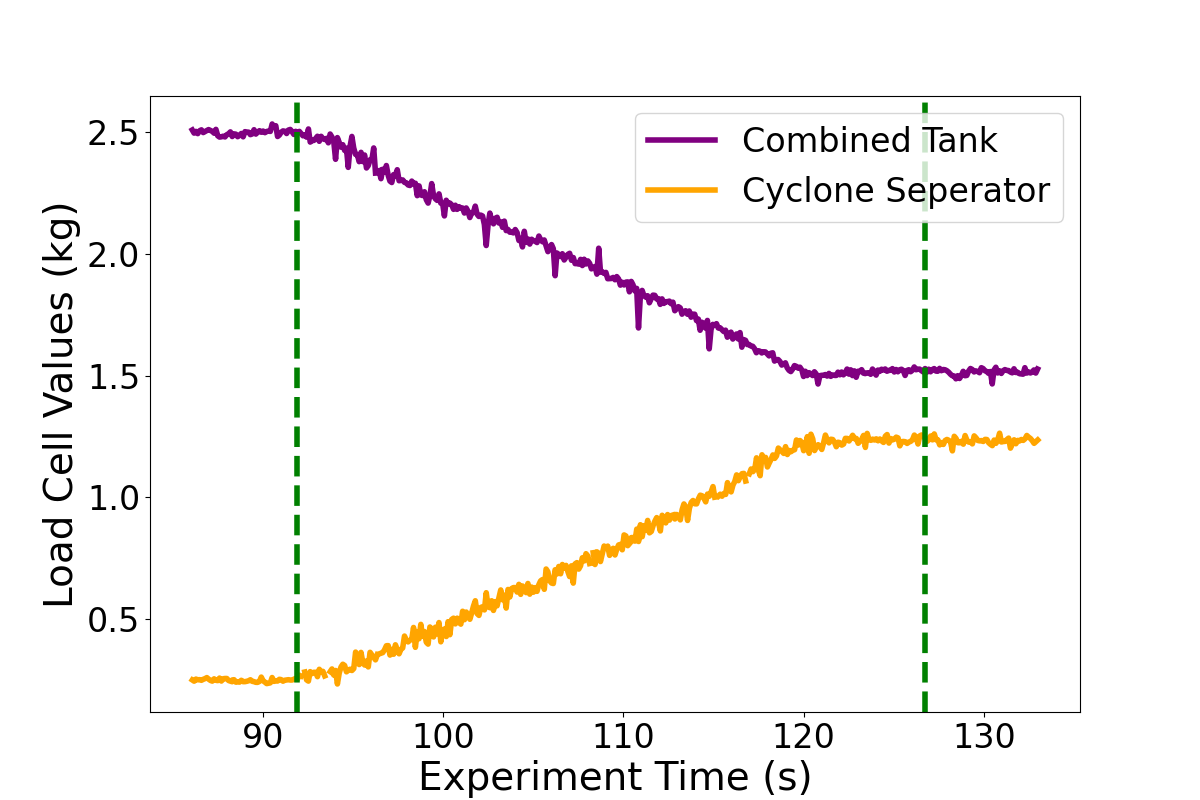
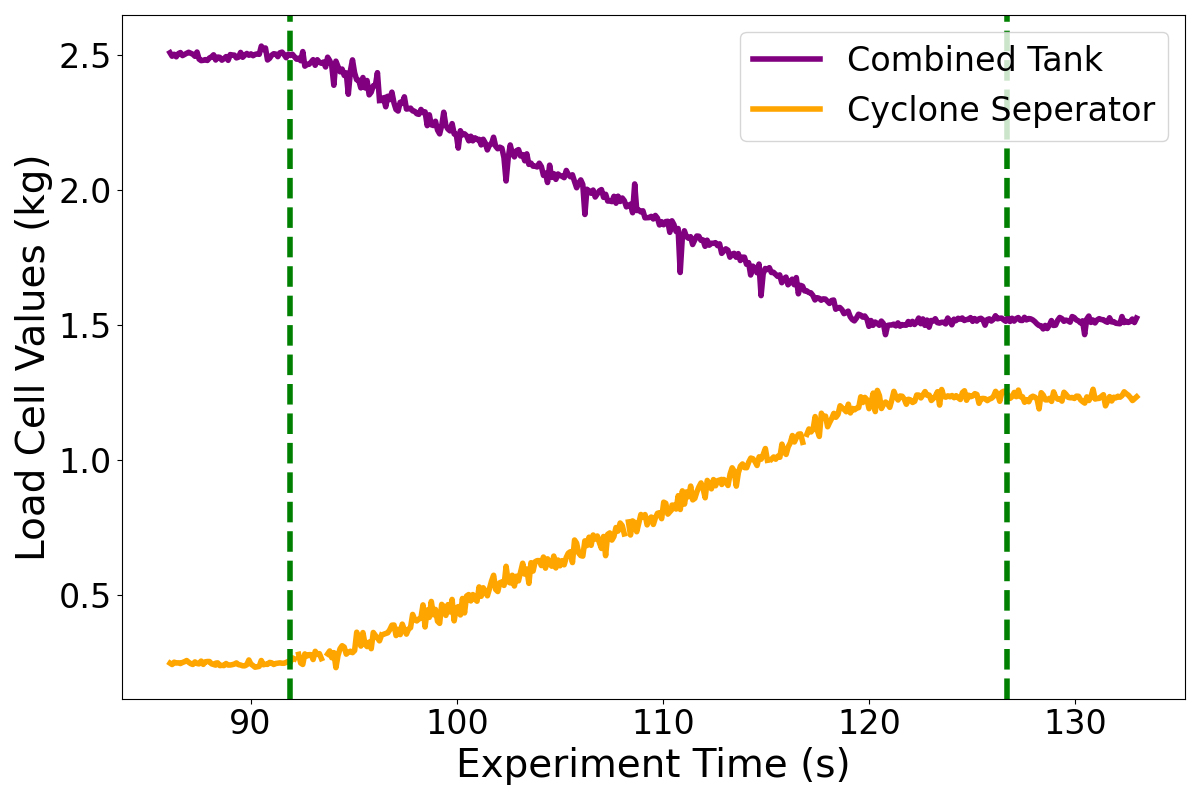
pics for 5th test

diff --git a/Research_Files/June/sand_results_51.py b/Research_Files/June/sand_results_51.py
@@ -53,12 +53,13 @@
 # plt.xlabel('Experiment Time (s)')
 # plt.ylabel('Load Cell Values (kg)')
 # plt.ylim(0.1, 2.1)
-# plt.legend()
+# plt.legend(loc='upper right')
+# plt.tight_layout()
 # # Show the plot
 # # plt.show()
 # plt.savefig('./latex/report_assets/51_raw_mass.png')
 # df_1['ch2plus7'] = df_1['ch2sens'] + df_1['ch7sens']
-# # Save cleaned DataFrames to new CSV files
+# Save cleaned DataFrames to new CSV files
 # df_1.to_csv(input_file_1.replace('.csv', '_clean.csv'), index=False)
 # df_2.to_csv(input_file_2.replace('.csv', '_clean.csv'), index=False)
 
@@ -101,10 +102,10 @@
 # plt.xlabel('Experiment Time (s)')
 # plt.ylabel('Load Cell Values (kg)')
 # plt.legend()
-
+# plt.tight_layout()
 # # # Show the plot
-# plt.savefig('./latex/report_assets/51_clean_mass.png')
-
+# # plt.savefig('./latex/report_assets/51_clean_mass.png')
+# plt.show()
 
 import matplotlib.pyplot as plt
 import pandas as pd
@@ -124,12 +125,12 @@ df_1['ch2plus7'] = -1*df_1['ch2plus7']
 df_1['m_flow'] = df_1['ch2plus7'].diff()
 df_2['m_flow'] = df_2['ch7sens'].diff()
 # Apply a rolling mean to smooth the curves
-window_size = 200  # Adjust as needed for smoothing
+window_size = 100  # Adjust as needed for smoothing
 df_1['smooth_combined'] = df_1['ch2plus7'].rolling(window=window_size, center=True, min_periods=1).mean()
 df_2['smooth_ch7sens'] = df_2['ch7sens'].rolling(window=window_size, center=True, min_periods=1).mean()
 
-df_1['m_flow_smooth'] = df_1['smooth_combined'].diff()
-df_2['m_flow_smooth'] = df_2['smooth_ch7sens'].diff()
+df_1['m_flow_smooth'] = df_1['smooth_combined'].diff()*10
+df_2['m_flow_smooth'] = df_2['smooth_ch7sens'].diff()*10
 
 plt.rc('legend', fontsize=24)   # Increase legend font size
 plt.rc('lines', linewidth=4)    # Further increase line width
@@ -138,15 +139,17 @@ plt.figure(figsize=(12, 8))    # Increase figure size
 plt.rc('xtick', labelsize=24)   # Increase x-axis tick font size
 plt.rc('ytick', labelsize=24)   # Increase y-axis tick font size
 
-plt.plot(df_1['BackendTime'], df_1['m_flow_smooth'], label='Combined Tank', color='purple')
-plt.plot(df_2['BackendTime'], df_2['m_flow_smooth'], label='Cyclone Seperator', color='orange')
+plt.plot(df_1['BackendTime'], df_1['m_flow_smooth']*1000, label='Combined Tank', color='purple')
+plt.plot(df_2['BackendTime'], df_2['m_flow_smooth']*1000, label='Cyclone Seperator', color='orange')
 
 plt.axvline(x=91.9, color='green', linestyle='--')
+plt.axvline(x=101.9, color='red', linestyle='--')
+plt.axvline(x=110.2, color='red', linestyle='--')
 plt.axvline(x=126.7, color='green', linestyle='--')
 
 plt.xlabel('Experiment Time (s)')
-plt.ylabel('Load Cell Values (kg)')
+plt.ylabel('Mass Flow Rate (g/s)')
 plt.legend()
-
+plt.tight_layout()
 # # Show the plot
-plt.savefig('./latex/report_assets/51_clean_flow_200.png')
+plt.savefig('./latex/report_assets/51_clean_flow_100.png')

diff --git a/Research_Files/June/sand_results_52.py b/Research_Files/June/sand_results_52.py
@@ -54,6 +54,7 @@
 # plt.ylabel('Load Cell Values (kg)')
 # plt.ylim(0.1, 2.1)
 # plt.legend()
+# plt.tight_layout()
 # # Show the plot
 # plt.savefig('./latex/report_assets/52_raw_mass.png')
 # df_1['ch2plus7'] = df_1['ch2sens'] + df_1['ch7sens']
@@ -100,7 +101,8 @@
 # plt.xlabel('Experiment Time (s)')
 # plt.ylabel('Load Cell Values (kg)')
 # plt.legend()
-
+# plt.tight_layout()
+# # plt.show()
 # # # Show the plot
 # plt.savefig('./latex/report_assets/52_clean_mass.png')
 
@@ -127,8 +129,8 @@ window_size = 100  # Adjust as needed for smoothing
 df_1['smooth_combined'] = df_1['ch2plus7'].rolling(window=window_size, center=True, min_periods=1).mean()
 df_2['smooth_ch7sens'] = df_2['ch7sens'].rolling(window=window_size, center=True, min_periods=1).mean()
 
-df_1['m_flow_smooth'] = df_1['smooth_combined'].diff()
-df_2['m_flow_smooth'] = df_2['smooth_ch7sens'].diff()
+df_1['m_flow_smooth'] = df_1['smooth_combined'].diff()*10
+df_2['m_flow_smooth'] = df_2['smooth_ch7sens'].diff()*10
 
 plt.rc('legend', fontsize=24)   # Increase legend font size
 plt.rc('lines', linewidth=4)    # Further increase line width
@@ -137,15 +139,18 @@ plt.figure(figsize=(12, 8))    # Increase figure size
 plt.rc('xtick', labelsize=24)   # Increase x-axis tick font size
 plt.rc('ytick', labelsize=24)   # Increase y-axis tick font size
 
-plt.plot(df_1['BackendTime'], df_1['m_flow_smooth'], label='Combined Tank', color='purple')
-plt.plot(df_2['BackendTime'], df_2['m_flow_smooth'], label='Cyclone Seperator', color='orange')
+plt.plot(df_1['BackendTime'], df_1['m_flow_smooth']*1000, label='Combined Tank', color='purple')
+plt.plot(df_2['BackendTime'], df_2['m_flow_smooth']*1000, label='Cyclone Seperator', color='orange')
 
 plt.axvline(x=39.5, color='green', linestyle='--')
+plt.axvline(x=49.5, color='red', linestyle='--')
+plt.axvline(x=59.9, color='red', linestyle='--')
 plt.axvline(x=74.9, color='green', linestyle='--')
 
 plt.xlabel('Experiment Time (s)')
-plt.ylabel('Load Cell Values (kg)')
-plt.legend()
-
+plt.ylabel('Mass Flow Rate (g/s)')
+plt.ylim(-10, 52)
+plt.legend(loc='lower center')
+plt.tight_layout()
 # # Show the plot
 plt.savefig('./latex/report_assets/52_clean_flow_100.png')

diff --git a/Research_Files/June/sand_results_53.py b/Research_Files/June/sand_results_53.py
@@ -54,6 +54,7 @@
 # plt.ylabel('Load Cell Values (kg)')
 # plt.ylim(0.1, 2.1)
 # plt.legend()
+# plt.tight_layout()
 # # Show the plot
 # plt.savefig('./latex/report_assets/53_raw_mass.png')
 # df_1['ch2plus7'] = df_1['ch2sens'] + df_1['ch7sens']
@@ -100,8 +101,9 @@
 # plt.xlabel('Experiment Time (s)')
 # plt.ylabel('Load Cell Values (kg)')
 # plt.legend()
-
+# plt.tight_layout()
 # # # Show the plot
+# # plt.show()
 # plt.savefig('./latex/report_assets/53_clean_mass.png')
 
 
@@ -127,8 +129,8 @@ window_size = 100  # Adjust as needed for smoothing
 df_1['smooth_combined'] = df_1['ch2plus7'].rolling(window=window_size, center=True, min_periods=1).mean()
 df_2['smooth_ch7sens'] = df_2['ch7sens'].rolling(window=window_size, center=True, min_periods=1).mean()
 
-df_1['m_flow_smooth'] = df_1['smooth_combined'].diff()
-df_2['m_flow_smooth'] = df_2['smooth_ch7sens'].diff()
+df_1['m_flow_smooth'] = df_1['smooth_combined'].diff()*10
+df_2['m_flow_smooth'] = df_2['smooth_ch7sens'].diff()*10
 
 plt.rc('legend', fontsize=24)   # Increase legend font size
 plt.rc('lines', linewidth=4)    # Further increase line width
@@ -137,15 +139,17 @@ plt.figure(figsize=(12, 8))    # Increase figure size
 plt.rc('xtick', labelsize=24)   # Increase x-axis tick font size
 plt.rc('ytick', labelsize=24)   # Increase y-axis tick font size
 
-plt.plot(df_1['BackendTime'], df_1['m_flow_smooth'], label='Combined Tank', color='purple')
-plt.plot(df_2['BackendTime'], df_2['m_flow_smooth'], label='Cyclone Seperator', color='orange')
+plt.plot(df_1['BackendTime'], df_1['m_flow_smooth']*1000, label='Combined Tank', color='purple')
+plt.plot(df_2['BackendTime'], df_2['m_flow_smooth']*1000, label='Cyclone Seperator', color='orange')
 
 plt.axvline(x=36.2, color='green', linestyle='--')
+plt.axvline(x=46.2, color='red', linestyle='--')
+plt.axvline(x=51.9, color='red', linestyle='--')
 plt.axvline(x=67.0, color='green', linestyle='--')
 
 plt.xlabel('Experiment Time (s)')
-plt.ylabel('Load Cell Values (kg)')
-plt.legend()
-
+plt.ylabel('Mass Flow Rate (g/s)')
+plt.legend(loc='lower center')
+plt.tight_layout()
 # # Show the plot
 plt.savefig('./latex/report_assets/53_clean_flow_100.png')
